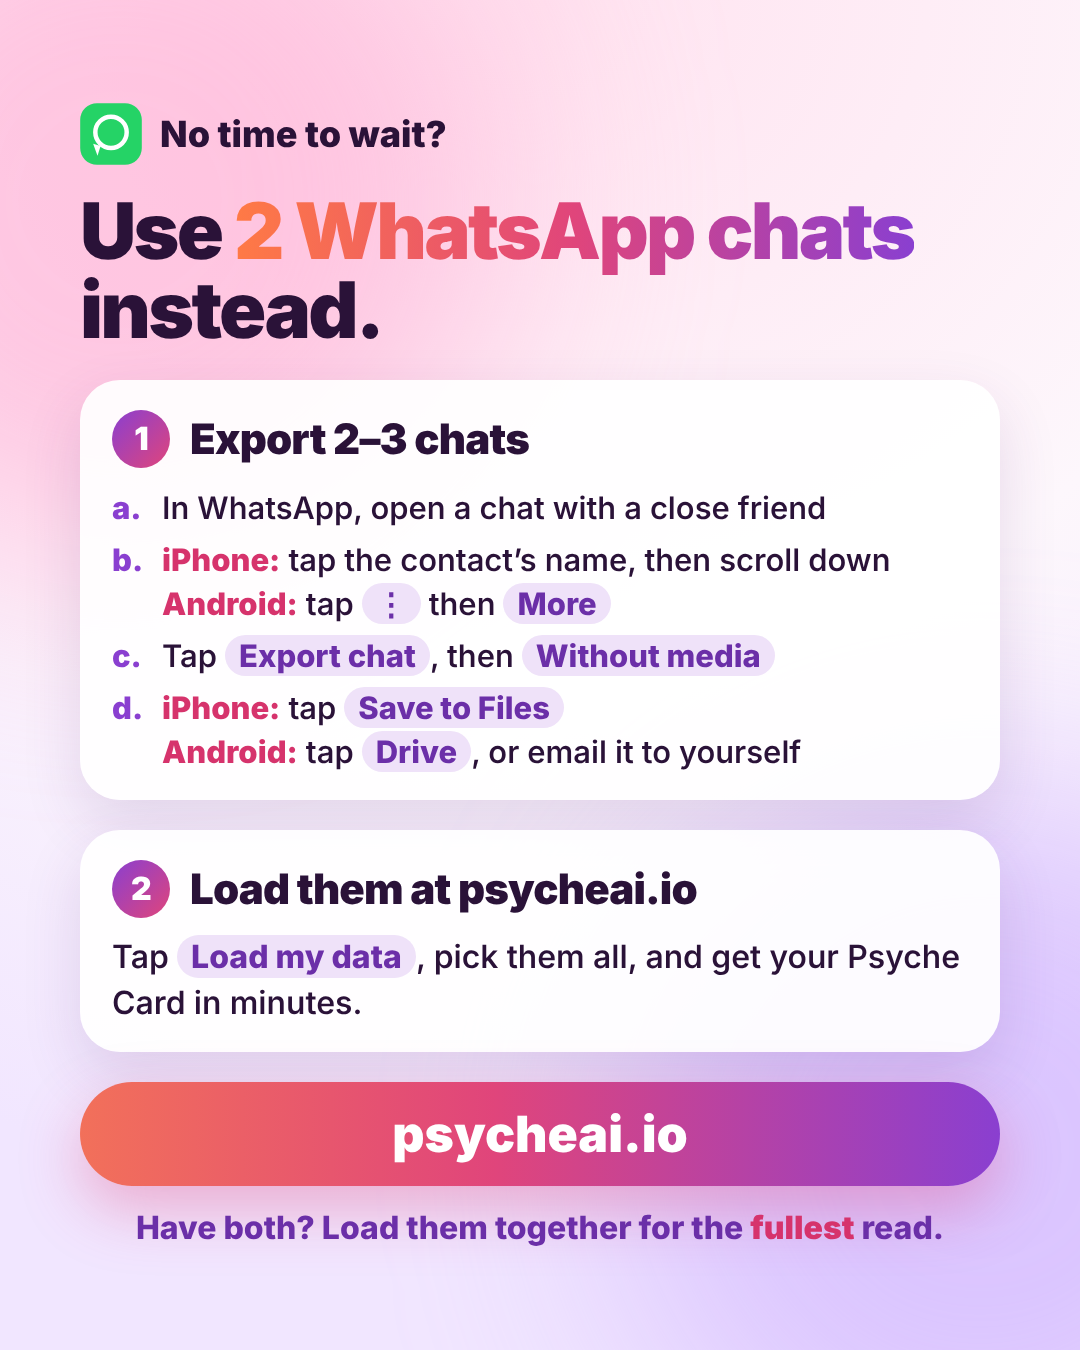
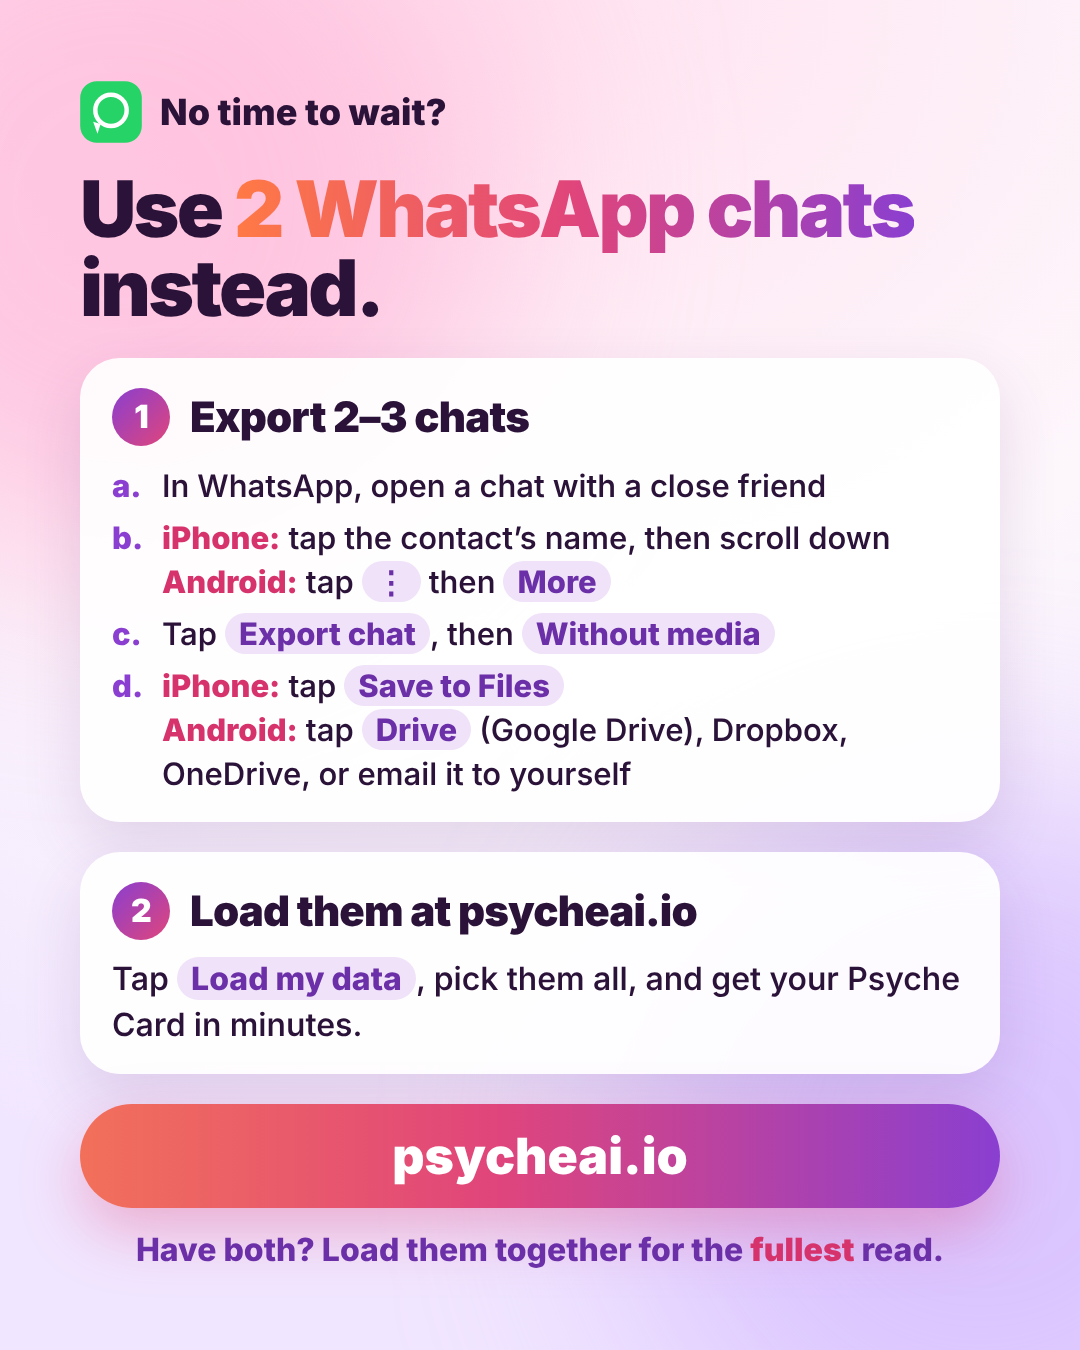
WhatsApp steps: Android saves to Drive (Google Drive), Dropbox, OneDrive or email; same in the story and post
Claude-Session: https://claude.ai/code/session_01JG1d877BBZBRM36WtZBvXb

diff --git a/promo/posts-stage.html b/promo/posts-stage.html
@@ -180,7 +180,7 @@ h2 { margin-top: 22px; font-size: 80px; font-weight: 900; letter-spacing: -0.035
         <li><i>a.</i>In WhatsApp, open a chat with a close friend</li>
         <li><i>b.</i><strong>iPhone:</strong> tap the contact’s name, then scroll down<br><strong>Android:</strong> tap <em>⋮</em> then <em>More</em></li>
         <li><i>c.</i>Tap <em>Export chat</em>, then <em>Without media</em></li>
-        <li><i>d.</i><strong>iPhone:</strong> tap <em>Save to Files</em><br><strong>Android:</strong> tap <em>Drive</em>, or email it to yourself</li>
+        <li><i>d.</i><strong>iPhone:</strong> tap <em>Save to Files</em><br><strong>Android:</strong> tap <em>Drive</em> (Google Drive), Dropbox, OneDrive, or email it to yourself</li>
       </ol>
     </div>
     <div class="gcard">

diff --git a/promo/stories-stage.html b/promo/stories-stage.html
@@ -210,7 +210,7 @@ h2 { margin-top: 22px; font-size: 80px; font-weight: 900; letter-spacing: -0.035
         <li><i>a.</i>In WhatsApp, open a chat with a close friend</li>
         <li><i>b.</i><strong>iPhone:</strong> tap the contact’s name, then scroll down<br><strong>Android:</strong> tap <em>⋮</em> then <em>More</em></li>
         <li><i>c.</i>Tap <em>Export chat</em>, then <em>Without media</em></li>
-        <li><i>d.</i><strong>iPhone:</strong> tap <em>Save to Files</em><br><strong>Android:</strong> tap <em>Drive</em>, or email it to yourself</li>
+        <li><i>d.</i><strong>iPhone:</strong> tap <em>Save to Files</em><br><strong>Android:</strong> tap <em>Drive</em> (Google Drive), Dropbox, OneDrive, or email it to yourself</li>
       </ol>
     </div>
     <div class="gcard">

diff --git a/docs/index.html b/docs/index.html
@@ -1723,7 +1723,7 @@
 <template id="howto-whatsapp">
   <li>In WhatsApp, open a chat with a close connection → tap <span class="ui-label">⋮</span> (or the contact’s name on iPhone) →
       <span class="ui-label">More</span> → <span class="ui-label">Export chat</span> → <span class="ui-label">Without media</span>.</li>
-  <li>Save it: on iPhone, <span class="ui-label">Save to Files</span>; on Android, <span class="ui-label">Drive</span> or email it to yourself.</li>
+  <li>Save it: on iPhone, <span class="ui-label">Save to Files</span>; on Android, save it to <span class="ui-label">Drive</span> (Google Drive), Dropbox, OneDrive, or email it to yourself.</li>
   <li>Load it <span class="howto-where">here</span>.</li>
 </template>
 

diff --git a/README.md b/README.md
@@ -1529,7 +1529,7 @@ story and carousel put iPhone first in step b.
 which has no "save to device", so the steps said to save a file the reader could not. They now say:
 iPhone, *Save to Files*; Android, *Drive* (or Dropbox, OneDrive), or email it to yourself and download
 the attachment. Cut the same day to three short steps: *Export chat → Without media*; *Save it: on
-iPhone, Save to Files; on Android, Drive or email it to yourself*; *Load it here/below*. (A file in
+iPhone, Save to Files; on Android, save it to Drive (Google Drive), Dropbox, OneDrive, or email it to yourself*; *Load it here/below*. (A file in
 Drive shows in Android's file picker under its ☰ menu; the steps no longer say so.)
 The WhatsApp story (start-5) and carousel slide (start-wa) say the same in step d.
 
